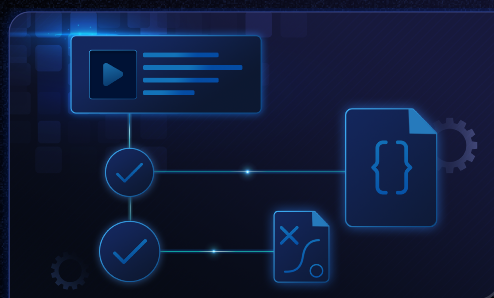
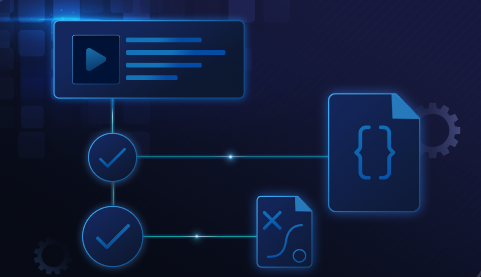
yc-page design layout-3

Changed region(s): [[0.0, 0.0, 1.0, 1.0], [0.9667, 0.9819, 1.0, 1.0]]

diff --git a/src/app/services/yc-page/ycWork.jsx b/src/app/services/yc-page/ycWork.jsx
@@ -3,6 +3,7 @@
 import React, { useState } from "react";
 import { ArrowUpRight, ChevronLeft, ChevronRight } from "lucide-react";
 import Image from "next/image";
+import Link from "next/link";
 
 const YCWork = () => {
   const [currentSet, setCurrentSet] = useState(0);
@@ -15,6 +16,7 @@ const YCWork = () => {
         id: "kubiya",
         title: "Kubiya.ai",
         category: "ENTERPRISE AI AGENT PLATFORM",
+        link: "https://kubiya.ai",
         description:
           "Translated complex agent features into a clear, responsive landing page delivered in days. Our content guides help engineering users onboard quickly to their unified observability dashboard.",
         achievement: "Delivered in 3 days",
@@ -25,6 +27,7 @@ const YCWork = () => {
         id: "middleware",
         title: "Middleware",
         category: "UNIFIED OBSERVABILITY PLATFORM",
+        link: "https://middleware.io",
         description:
           "Made technical UIs approachable with content guides and use-case write-ups that explain dashboards, alerts and logs in plain language for faster engineering onboarding.",
         achievement: "50% faster onboarding",
@@ -83,12 +86,29 @@ const YCWork = () => {
                 <div
                   className="relative bg-slate-900/60 backdrop-blur-sm border border-slate-700/50 rounded-3xl overflow-hidden transition-all duration-500 hover:border-purple-500/30"
                   style={{
-                    background:
-                      "linear-gradient(to top right, #020207 40%, #2c3077 90%)",
+                    background: hoveredCard === card.id
+                      ? "#2c3077" 
+                      : "linear-gradient(to top right, #020207 40%, #2c3077 90%)",
                     border: "2px solid #2f2f37",
-                    transition: "all 0.3s ease",
+                    position: "relative",
+                    overflow: "hidden",
+                    transition: "background 0.6s ease"
                   }}
                 >
+                  {/* Glowy gradient overlay animation */}
+                  <div
+                    className="absolute inset-0 pointer-events-none"
+                    style={{
+                      background: `radial-gradient(600px circle at ${hoveredCard === card.id ? '100% 0%' : '120% -20%'}, 
+                        rgba(139, 92, 246, ${hoveredCard === card.id ? '0.3' : '0'}) 0%, 
+                        rgba(59, 130, 246, ${hoveredCard === card.id ? '0.2' : '0'}) 30%, 
+                        rgba(147, 51, 234, ${hoveredCard === card.id ? '0.1' : '0'}) 50%, 
+                        transparent 70%)`,
+                      transition: "all 0.8s cubic-bezier(0.4, 0, 0.2, 1)",
+                      transform: hoveredCard === card.id ? 'scale(1)' : 'scale(0.8)',
+                      opacity: hoveredCard === card.id ? 1 : 0
+                    }}
+                  />
                   <div
                     className={`absolute -top-1 -right-1 w-32 h-32 bg-gradient-to-br from-purple-500/30 via-blue-500/20 to-transparent rounded-full blur-xl transition-all duration-500 ${hoveredCard === card.id
                         ? "scale-[3] opacity-60"
@@ -96,7 +116,6 @@ const YCWork = () => {
                       }`}
                   ></div>
 
-                  {/* Image  */}
                   <div className="h-80 relative overflow-hidden">
                     <div className="absolute top-4 left-4 right-4 bottom-4">
                       <div
@@ -123,7 +142,11 @@ const YCWork = () => {
                       <h2 className="text-2xl font-bold text-white tracking-tighter font-sans">
                         {card.title}
                       </h2>
-                      <ArrowUpRight className="text-slate-400 w-8 h-8 transition-all rounded-sm duration-300 group-hover:text-purple-400 border-[1.5px] border-[#5c5c63]" />
+
+                      <Link href={card.link} target="_blank" rel="noopener noreferrer">
+                      <ArrowUpRight className="text-slate-400 w-7 h-7 transition-all rounded-sm duration-300 group-hover:text-purple-400 border-[1.5px] border-[#5c5c63]" />
+                     </Link>
+                     
                     </div>
 
                     <div className="mb-3">

diff --git a/src/app/services/yc-page/whatWeDo.jsx b/src/app/services/yc-page/whatWeDo.jsx
@@ -16,7 +16,7 @@ const WhatWeDo = () => {
         transition: "all 0.3s ease",
       }}
     >
-      <div className="max-w-6xl mx-auto text-center relative z-10 py-10 pt-4">
+      <div className="max-w-6xl mx-auto text-center relative z-10 py-14 ">
         <div className="quicksand-bold text-[37px] max-sm:text-[1em] tracking-tighter leading-[80px] text-white text-center flex justify-center mb-2">
           <h1 className=" leading-[80px] max-sm:leading-[69px] text-center max-lg:text-center max-lg:mx-auto">
             What we do{" "}
@@ -151,31 +151,30 @@ const WhatWeDo = () => {
               <div className="p-8">
                 <div className="flex items-start justify-between mb-3">
                   <h2 className="text-2xl font-bold text-white quicksand-bold tracking-tighter">
-                    Technical Content and Blogs
+                    Webflow Development
                   </h2>
                 </div>
 
                 <p className="text-sm text-gray-400 tracking-wider leading-relaxed font-light mb-8">
-                  SEO-driven developer articles, whitepapers and product docs
-                  written by engineers for engineers
+                 Landing pages and websites tailored to B2B SaaS/DevTools, delivered fast - often under a week.
                 </p>
 
                 <div className="flex items-center space-x-3 mb-2">
                   <RightIcon />
                   <p className="text-sm text-gray-400 tracking-wider font-light flex items-center">
-                    How-to guides
+                   Responsive design 
                     <span className="ml-4 text-gray-400">|</span>{" "}
                   </p>
 
                   <RightIcon />
                   <p className="text-sm text-gray-400 tracking-wider font-light flex items-center">
-                    Integration playbooks
+                    Conversion Focused 
                     <span className="ml-4 text-gray-400">|</span>{" "}
                   </p>
 
                   <RightIcon />
                   <p className="text-sm text-gray-400 tracking-wider font-light">
-                    Integration playbooks
+                    SEO Driven
                   </p>
                 </div>
               </div>
@@ -269,19 +268,19 @@ const WhatWeDo = () => {
 
               {/* Right Side - Image */}
               <div className="flex-1">
-                <div className="h-full min-h-[200px] top-16 left-4 bottom-0 right-0 relative overflow-hidden rounded-xl">
+                <div className="h-full min-h-[200px] top-10 left-4 bottom-0 right-0 relative overflow-hidden rounded-xl">
                   <div
-                    className="bg-white/95 p-4 h-full relative overflow-hidden rounded-xl"
+                    className=" p-4 h-full relative overflow-hidden rounded-xl"
                     style={{
                       border: "1.5px solid #223170",
                     }}
                   >
-                    <div className="absolute inset-0 bg-gradient-to-br from-slate-100 to-slate-300 flex items-center justify-center text-slate-600 text-lg font-medium rounded-xl">
+                    <div className="absolute inset-0 bg-gradient-to-br flex items-center justify-center text-slate-600 text-lg font-medium rounded-xl">
                       <Image
-                        src={`/ai-page/first.png`}
+                        src={`/ai-page/third.png`}
                         alt="Kubiya Dashboard"
-                        layout="fill"
-                        objectFit="cover"
+                        height={500}
+                        width={600}
                         className="absolute inset-0 object-cover rounded-xl"
                       />
                     </div>
@@ -293,7 +292,7 @@ const WhatWeDo = () => {
         </div>
       </div>
 
-      <div className="flex items-center justify-center p-10 bg-gray-900 min-h-screen">
+      <div className="flex items-center justify-center p-10 bg-gray-900 min-h-screen pb-20">
         <div className="flex flex-col lg:flex-row gap-10 max-w-6xl w-full">
           {/* First Card */}
           <div

diff --git a/src/app/services/yc-page/whyYC.jsx b/src/app/services/yc-page/whyYC.jsx
@@ -68,7 +68,7 @@ const HoverCards = () => {
     ];
 
     return (
-        <div className="bg-gradient-to-br from-blue-900/40 via-[#0a0f1c] to-slate-900 py-20">
+        <div className="bg-gradient-to-br from-blue-900/40 via-[#0a0f1c] to-slate-900 py-10">
             <div className="max-w-6xl mx-auto text-center relative z-10 py-10 pt-4">
                 <div className="quicksand-bold text-[37px] max-sm:text-[1em] tracking-tighter leading-[80px] text-white text-center flex justify-center mb-2">
                     <h1 className=" leading-[80px] max-sm:leading-[69px] text-center max-lg:text-center max-lg:mx-auto">
@@ -77,14 +77,14 @@ const HoverCards = () => {
                 </div>
 
                 {/* Description */}
-                <div className="max-w-[70%] mx-auto mb-8">
+                <div className="max-w-[70%] mx-auto">
                     <p className="text-[17px] md:text-[17px] text-gray-300 leading-relaxed font-light">
                         Built for the speed and precision that Y Combinator companies demand
                     </p>
                 </div>
             </div>
             <div className="flex items-center justify-center p-8">
-                <div className="flex gap-4 max-w-7xl w-full justify-center items-start">
+                <div className="h-64 flex gap-4 max-w-7xl w-full justify-center items-start">
                     {cards.map((card, index) => (
                         <div
                             key={index}
@@ -94,6 +94,11 @@ const HoverCards = () => {
                                 }`}
                             onMouseEnter={() => setActiveCard(index)}
                             onMouseLeave={() => setActiveCard(0)}
+                            style={{
+                                background: "linear-gradient(to top right, #020207 40%, #2c3077 90%)",
+                                border: "2px solid #2f2f37",
+                                transition: "all 0.3s ease",
+                            }}
                         >
                             <div className="px-8 pt-8 flex flex-col h-full">
 
@@ -114,8 +119,9 @@ const HoverCards = () => {
                                             ? "opacity-100 translate-y-0 delay-200"
                                             : "opacity-0 translate-y-2 delay-0"
                                             }`}
+
                                     >
-                                        <p className="h-10 text-[17px] md:text-[15px] text-gray-300 leading-relaxed tracking-wide font-light">
+                                        <p className="h-10 text-[17px] md:text-[15px] text-[#afafaf] leading-relaxed tracking-wide font-[330]">
                                             {card.description}
                                         </p>
 
@@ -124,12 +130,12 @@ const HoverCards = () => {
 
                                             <div className="flex items-center space-x-3 pt-14">
                                                 <RightIcon />
-                                                <p className="text-sm text-[#ffa600] tracking-wider flex items-center">
+                                                <p className="text-sm text-[#ffa600] tracking-wider font-[330] flex items-center">
                                                     {card.time}{" "}
                                                     <span className="ml-4 text-gray-400">|</span>{" "}
                                                 </p>
 
-                                                <p className="text-sm text-[#ffffffe8] tracking-wider font-light flex items-center">
+                                                <p className="text-sm text-[#afafaf] tracking-wider font-[330] flex items-center">
                                                     {card.tagLine}{" "}
                                                 </p>
 
